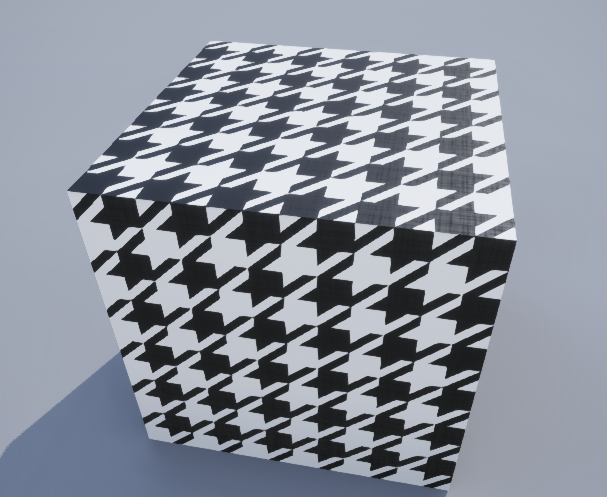
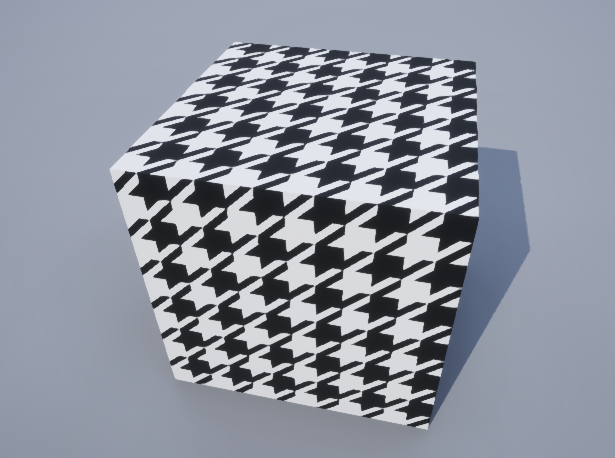
docs: 260420 rev

diff --git a/_posts/Unreal/TA/2026-04-20-TA-Procedural Shader.md b/_posts/Unreal/TA/2026-04-20-TA-Procedural Shader.md
@@ -20,15 +20,20 @@ tags: [Unreal, TA, Material ,Procedural Shader]
 
 TextureCoordinate노드에 Mask노드에 연결한다. U 혹은 V값만 남긴 후 Modulo를 이용해 나누는 값에 따라 나머지로 남는 값에 의해 따라 타일처럼 분할된다. 
 ![image](/assets/img/260420-fabric1.png)
+
 Step으로 일정 값 이하는 0으로, 더 큰 값은 1로 대체하면 뚜렷한 줄무늬 모양을 만들 수 있다. 둘을 Subtract로 빼주면 정사각형의 배치를 얻을 수 있다.
 ![image](/assets/img/260420-fabric2.png)
+
 한편 Modulo로 얻은 스트라이프 패턴에서 Step전에 Add로 합치면 대각선으로 점점 짙어지는 TextureCoordinate와 유사하지만 그리드로 배열된 패턴을 얻을 수 있다.
 ![image](/assets/img/260420-fabric3.png)
+
 이를 아까처럼 Step에 적용하면 모서리에만 있는 삼각형을 얻을 수 있다.
 ![image](/assets/img/260420-fabric4.png)
+
 비슷하게 응용하여 더 큰 삼각형에서 작은 삼각형을 Subtract로 뺴주면 대각선의 직선을 얻는다.
 ![image](/assets/img/260420-fabric5.png)
-이를 모두 합치면 코드나 가방에서 많이 볼법한 직물 패턴인 하운드투스가 만들어진다. 완성한 패턴을 BaseColor에 연결해주고 나무패턴 2개를 수직으로 겹치는 방법으로 Roughness를 약간 조정해 직물의 거친 느낌을 따라해보았다. 처음의 TextureCoordinate에서 UTiling/VTiling을 조절하면 직물 패턴의 밀도를 조절할 수 있다. 현재는 UTiling/VTiling을 3으로 사용해 총 6번씩 반복된다.
+
+이를 모두 합치고 완성한 패턴을 BaseColor에 연결해주면, 코드나 가방에서 많이 볼법한 직물 패턴인 하운드투스가 만들어진다. 처음의 TextureCoordinate에서 UTiling/VTiling을 조절하면 직물 패턴의 밀도를 조절할 수 있다. 현재는 UTiling/VTiling을 3으로 사용해 총 6번씩 반복된다.
 <div  style="display: grid; grid-template-columns: repeat(2, 1fr); gap: 10px;">
 	<figure>
 		<img  src="/assets/img/260420-fabric6.png"  alt=""  style="width:100%; aspect-ratio:4/3; object-fit:cover;">
@@ -39,6 +44,25 @@ Step으로 일정 값 이하는 0으로, 더 큰 값은 1로 대체하면 뚜렷
 		<figcaption style="text-align: center;">상자에 적용된 직물패턴</figcaption>
 	</figure>
 </div>
+
+이대로는 패턴이 밋밋하니 직물 특유의 실이 얽혀있는 효과를 추가해보자. TextureCoordinate노드에서 UV성분을 마스크로 분리, 한쪽만 길게 늘어뜨리기 위해 Multiply로 큰 수를 곱해줬다.
+![image](/assets/img/260420-fabric8.png)
+
+이를 Append로 합쳐서 2차원 벡터로 만들어주고, 노이즈 함수에 넣기 위해선 Vector3여야하니 Append로 0을 붙여 3차원 벡터로 만들어준다. 노이즈 함수에 넣어주면 이전에 Multiply값에 의해 한쪽으로 늘어진 노이즈 패턴이 나타난다. 노이즈 함수는 기본인 Simplex에 스케일값만 10배로 만들어 패턴을 더 작고 치밀하게 실에 적합한 모습으로 만들어줬다.
+![image](/assets/img/260420-fabric9.png)
+
+가로 세로로 나뉜 패턴을 Add로 합쳐준다. 0에서 1까지의 범위를 가지는 것을 2개 더했기 때문에 0에서 2까지인데, 범위를 되돌리기위해 절반으로 나누고 전체적으로 거칠기를 유지하기위해 0.4를 더한 후 Roughness에 연결해줬다. 한편 Normal에는 -1 부터 1까지의 범위의 값이 들어가야하기에 1만 빼준 후, Append를 이용해 Normal에 넣을 수 있는 3차원 벡터로 만들어 연결해줬다. 최종 결과물에선 전보다 실같이 갈라지고 얽혀있는 질감도 느낄 수 있다. 특히 사선에서 빛이 들어올 때 잘 느껴진다.
+<div  style="display: grid; grid-template-columns: repeat(2, 1fr); gap: 10px;">
+	<figure>
+		<img  src="/assets/img/260420-fabric10.png"  alt=""  style="width:100%; aspect-ratio:4/3; object-fit:cover;">
+		<figcaption style="text-align: center;">Roughness와 Normal까지 연결된 모습 </figcaption>
+	</figure>
+	<figure>
+		<img  src="/assets/img/260420-fabric11.png"  alt=""  style="width:100%; aspect-ratio:4/3; object-fit:cover;">
+		<figcaption style="text-align: center;">실의 얽힘이 보이는 직물패턴</figcaption>
+	</figure>
+</div>
+
 
 ## 예시 2: 이벤트 구역
 이번엔 원형의 이벤트 구역에서 존재를 알리는 위로 솟는 효과를 만들어보자.
